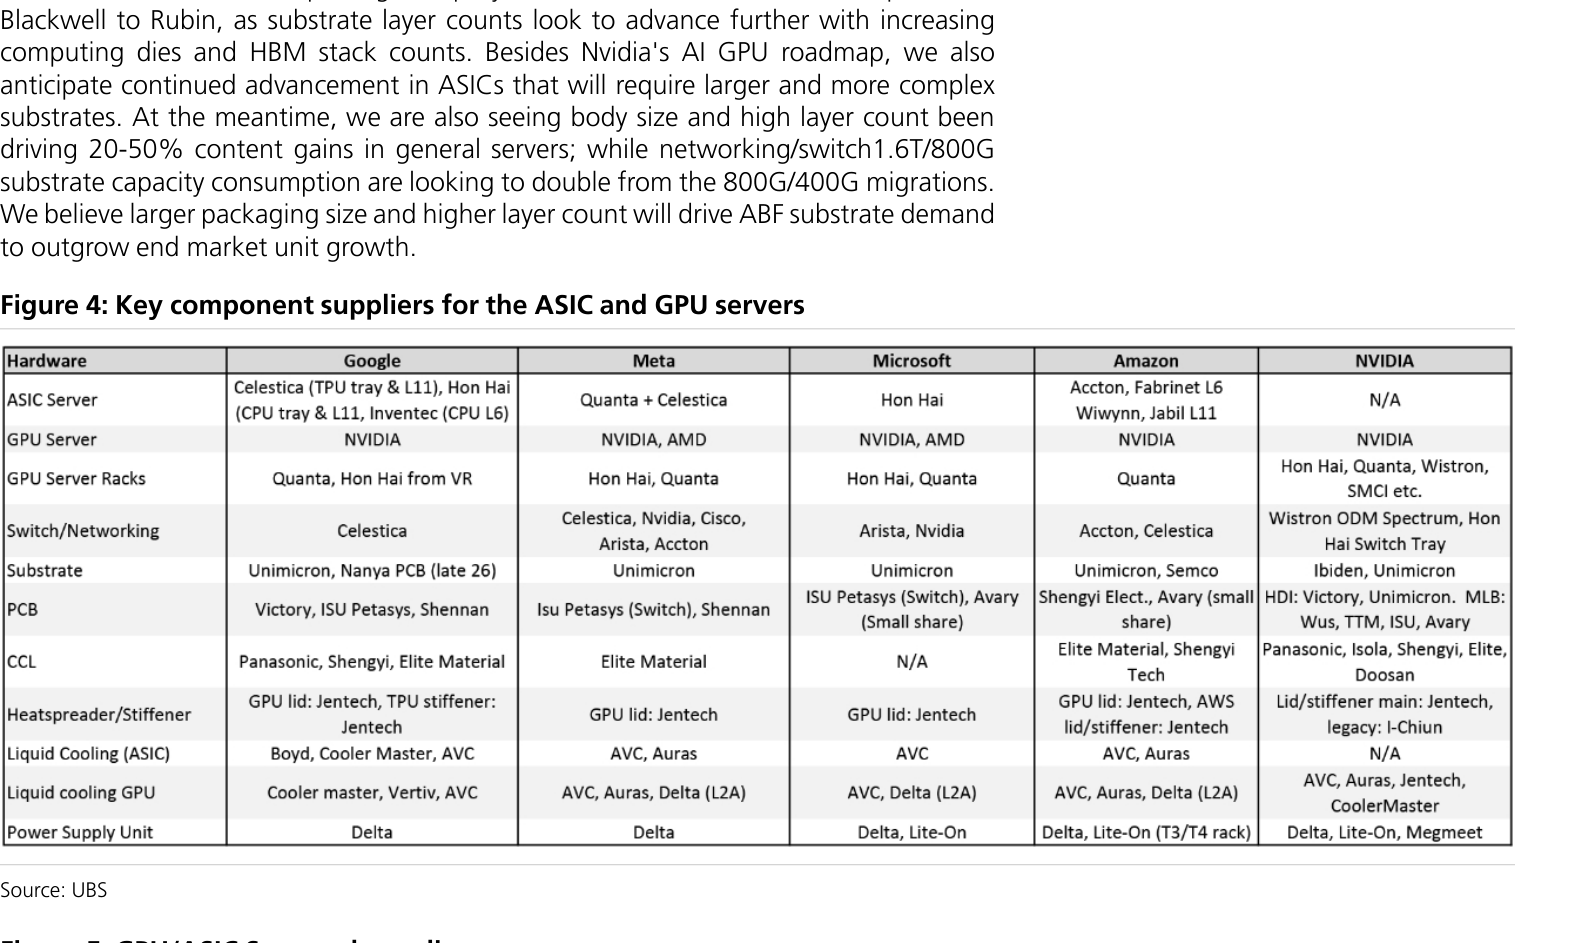
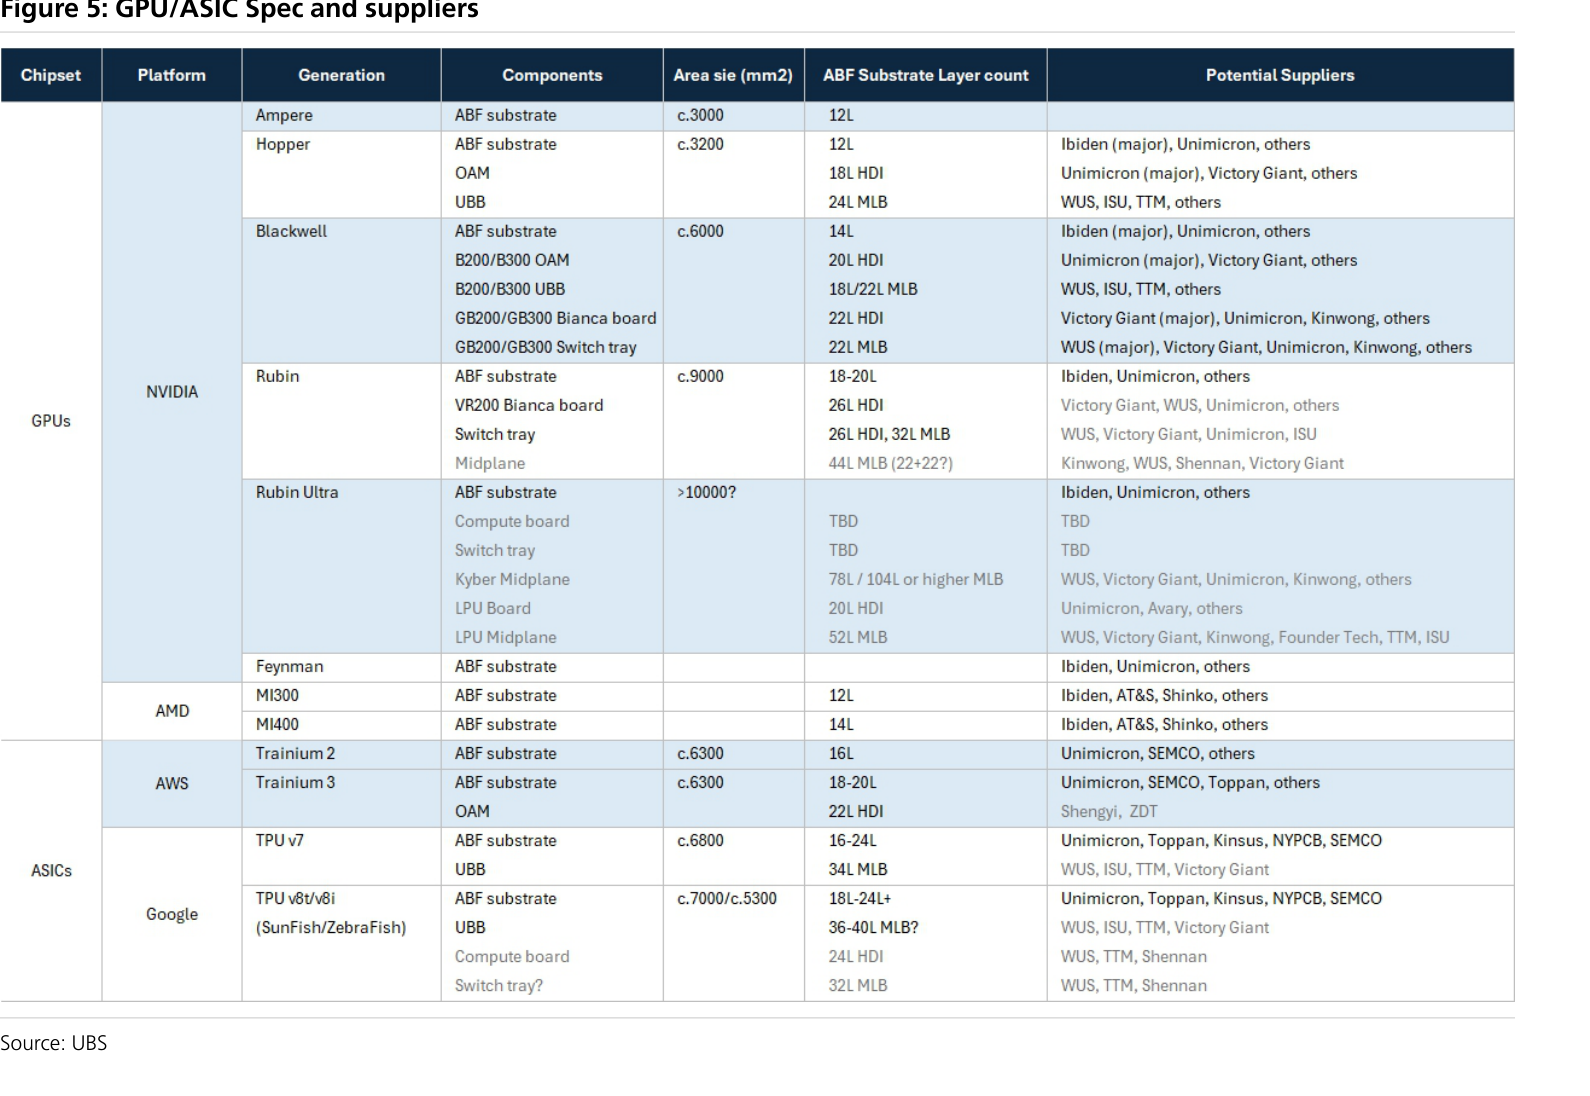
sync: update foreign reports 2026-05-26

diff --git a/content/產業/UBS_20260522_TW-PCB-Substrate.md b/content/產業/UBS_20260522_TW-PCB-Substrate.md
@@ -129,24 +129,65 @@
 
 ---
 
-## Figure 5｜關鍵零組件供應商矩陣（ASIC/GPU Server）
+## Figure 4｜關鍵零組件供應商矩陣（ASIC/GPU Server）
 
-![Figure 5](../assets/UBS_20260522_TW-PCB-Substrate/exhibit_05.png)
+![Figure 4](../assets/UBS_20260522_TW-PCB-Substrate/exhibit_04.png)
 
 ### 解讀摘要
 主要 CSP 的 ASIC 及 GPU server 供應鏈矩陣顯示，Substrate 供應商在所有客戶的 AI Server 中均有明確的台灣廠商（Unimicron、Kinsus）席位。Google/Meta/Microsoft/Amazon 四大 ASIC 平台全部使用台系 substrate，而 NVIDIA GPU server 的 GPU substrate 同樣由台系主導——這意味著市場結構性依賴台灣基板廠，而非可輕易替代。
 
 ### 表格
 
-| 層次 | Google | Meta | Microsoft | Amazon | NVIDIA |
+| 硬體類別 | Google | Meta | Microsoft | Amazon | NVIDIA |
 |---|---|---|---|---|---|
-| ASIC | Broadcom | Marvell | MAIA (Altera/Marvell) | Trainium (Alchip) | — |
-| GPU | — | — | — | — | NVIDIA H/B/R 系列 |
-| Substrate | 台系（Unimicron/Kinsus） | 台系 | 台系 | 台系 | 台系（Unimicron 主導） |
-| CCL | 主要台系 | 主要台系 | 主要台系 | 主要台系 | 主要台系 |
-| Liquid Cooling | 多供應商 | 多供應商 | 多供應商 | 多供應商 | 多供應商 |
+| ASIC Server | Celestica (TPU tray & U), Hon Hai (CPU tray & U), Quanta (CPU tray & U) | Quanta + Celestica (NVIDIA AMD) | Hon Hai, Quanta | Hon Hai | Acton, Celestica (Hon Hai, Quanta) |
+| GPU Server Racks | Quanta, Hon Hai from VR | NVIDIA, AMD | Celestica, Nvidia, Cisco, Arista, Accton | Arista, Nvidia (for Quanta) | Acton, Celestica (Hon Hai from VR) |
+| Switching/Networking | Celestica | No Peloton (DeWitt), Sherman | ISG Peloton (DeWitt), Sherman | Unimicron, Samsics (Shengli Boat), Avery (Samsic, Boat) | Broadcom/Bear, Avery (Samsic, Boat), Hon Hai Switch Tray |
+| Substrate | Unimicron, Kinsus PCB (Note 28) | Elite Material | Unimicron | Unimicron, Kinsus, Elite Material | Ibiden, Unimicron, NAN + PCB, TTM, others |
+| PCB | Unimicron | ISU Peloton (DeWitt), Sherman | ISU Peloton (DeWitt) | Unimicron, Kinsus; Elite Material | Ibiden, PCB (STA-BHD), others |
+| CCL | Panasonic, Shengli; Elite Material | No Peloton (DeWitt), Sherman | AVC, Arris; Delta (2JA) | AVC, Delta (2JA) | AVC, Arris; Delta (2JA) |
+| Heatspreader/Stiffener | GPU tbl Jamboli; AVC | GPU tbl Jamboli | GPU tbl Jamboli; AVC | GPU tbl Jamboli; AVC | Ibiden/Shinko; Avery (MLG others); GPU tbl Jamboli |
+| Liquid Cooling (AICs) | Cooler Master, Vertiv, AVC | AVC, Arris, Delta (2JA) | AVC, Delta (2JA) | AVC, Delta (2JA) | AVC, Arris; Delta (2JA) |
+| Liquid cooling GPU | Cooler Master, Vertiv, AVC | Delta | AVC, Arris; Delta (2JA) | AVC, Delta (2JA) | AVC, Arris; Delta (2JA) |
+| Power Supply Unit | Delta | Delta | Delta | Delta | Delta, Lite-On, Mugnent |
 
-> **洞察一**：五大 CSP 的 ASIC 晶片設計各不同，但 substrate 供應商卻高度集中於台系，代表 Unimicron/Kinsus 的客戶分散度遠優於 ASIC 設計廠——任一 CSP 的 ASIC 策略改變，對 substrate 需求的衝擊有限。
+*表格欄位部分為視覺估算，以原始 PDF 為準*
+
+> **洞察一**：五大 CSP 的 ASIC 晶片設計各不同，但 substrate 供應商卻高度集中於台系（Unimicron/Kinsus 跨所有客戶），代表 Unimicron/Kinsus 的客戶分散度遠優於 ASIC 設計廠——任一 CSP 的 ASIC 策略改變，對 substrate 需求的衝擊有限。
+
+---
+
+## Figure 5｜GPU/ASIC Spec 與供應商
+
+![Figure 5](../assets/UBS_20260522_TW-PCB-Substrate/exhibit_05.png)
+
+### 解讀摘要
+UBS 彙整各代 GPU/ASIC 平台的 Substrate 面積與層數規格，顯示三個關鍵趨勢：(1) Blackwell 的 ABF substrate 面積相較 Hopper 增加約 +70–80%；(2) Rubin 世代引入全新元件（Switch tray、Midplane、IB Midplane、CPU Midplane），每個 rack 需要的 substrate 種類從 2–3 種增加至 5 種以上；(3) layer count 從 Hopper 的 32L 跳至 Rubin-Ultra 的 60L+ 以上。台系供應商（Unimicron、Kinsus、Shinko）出現在所有主要平台的潛在供應商名單中。
+
+### 表格
+
+| 晶片類別 | 平台 | Generation | 元件 | 面積（mm²） | ABF 基板層數 | 潛在供應商 |
+|---|---|---|---|---|---|---|
+| **GPUs** | NVIDIA | Ampere | ABF substrate | ~5,000–6,500 | 32 | Shinko, Unimicron, others |
+| | | Hopper | ABF substrate | ~6,500 | 32+ | Ibiden, Shinko, Unimicron, others |
+| | | Blackwell | ABF substrate | ~8,000（+70–80% vs Hopper） | 46+ | Kinsus, Unimicron, Ibiden, others |
+| | | Rubin | VR/SXM substrate | ~8,000–10,000 | 46+ | Ibiden, Kinsus, Unimicron, Victory Giant |
+| | | Rubin | GB200/GB300 Switch tray | ~1,000–2,000 | 20–24 | TTM, Shennan, Kinwong, others |
+| | | Rubin | Midplane | ~3,000+ | 30+ | Unimicron, Kinsus, Shennan |
+| | | Rubin | IB Midplane / CPU Midplane | ~500–1,500 | 20+ | TTM, Shennan, Kinwong |
+| | | Rubin-Ultra | ABF substrate | >10,000 | 60+ | Ibiden, Kinsus, Unimicron |
+| **AMD** | AMD | M300 | ABF substrate | 321 | — | Ibiden, ATK5, Shinko, others |
+| | | H400 | ABF substrate | 321 | — | Ibiden, ATK5, Shinko, others |
+| **ASICs** | Amazon | Trainium-1 | ABF substrate | ~2,000 | 30+ | Unimicron, Kinsus, Shennan |
+| | | Trainium-2 | ABF substrate | ~2,000 | 40+ | Unimicron, Kinsus |
+| | Google | TPU-v6e/v6/v6p | ABF substrate | — | — | Victory Giant, Shennan, Kinwong |
+| | Google | ZebraFish (v6p) | Compute board, Switch board | — | — | TTM, Shennan, Kinwong, others |
+
+*部分數值為視覺估算，以原始 PDF 為準*
+
+> **洞察一**：Rubin 世代的 substrate opportunity 不只是 GPU substrate 面積（~+25% vs Blackwell），更在於元件種類倍增——Rubin rack 至少有 5 種 substrate（VR/SXM + Switch tray + Midplane + IB Midplane + CPU Midplane），每一種都有獨立的台系供應商機會，總量級顯著高於單純 GPU substrate 面積計算。
+
+> **洞察二（配合 Figure 4）**：Figure 4 顯示台系廠商在 Unimicron/Kinsus 佔據所有 CSP 的 substrate 位置；Figure 5 進一步確認技術門檻（46L+ ABF、>10,000mm² Rubin-Ultra）將進一步縮窄合格供應商範圍，台系廠商的競爭優勢非短期可被取代。
 
 ---
 

diff --git a/quartz/static/downloads/產業/UBS_20260522_TW-PCB-Substrate.md b/quartz/static/downloads/產業/UBS_20260522_TW-PCB-Substrate.md
@@ -129,24 +129,65 @@
 
 ---
 
-## Figure 5｜關鍵零組件供應商矩陣（ASIC/GPU Server）
+## Figure 4｜關鍵零組件供應商矩陣（ASIC/GPU Server）
 
-![Figure 5](../assets/UBS_20260522_TW-PCB-Substrate/exhibit_05.png)
+![Figure 4](../assets/UBS_20260522_TW-PCB-Substrate/exhibit_04.png)
 
 ### 解讀摘要
 主要 CSP 的 ASIC 及 GPU server 供應鏈矩陣顯示，Substrate 供應商在所有客戶的 AI Server 中均有明確的台灣廠商（Unimicron、Kinsus）席位。Google/Meta/Microsoft/Amazon 四大 ASIC 平台全部使用台系 substrate，而 NVIDIA GPU server 的 GPU substrate 同樣由台系主導——這意味著市場結構性依賴台灣基板廠，而非可輕易替代。
 
 ### 表格
 
-| 層次 | Google | Meta | Microsoft | Amazon | NVIDIA |
+| 硬體類別 | Google | Meta | Microsoft | Amazon | NVIDIA |
 |---|---|---|---|---|---|
-| ASIC | Broadcom | Marvell | MAIA (Altera/Marvell) | Trainium (Alchip) | — |
-| GPU | — | — | — | — | NVIDIA H/B/R 系列 |
-| Substrate | 台系（Unimicron/Kinsus） | 台系 | 台系 | 台系 | 台系（Unimicron 主導） |
-| CCL | 主要台系 | 主要台系 | 主要台系 | 主要台系 | 主要台系 |
-| Liquid Cooling | 多供應商 | 多供應商 | 多供應商 | 多供應商 | 多供應商 |
+| ASIC Server | Celestica (TPU tray & U), Hon Hai (CPU tray & U), Quanta (CPU tray & U) | Quanta + Celestica (NVIDIA AMD) | Hon Hai, Quanta | Hon Hai | Acton, Celestica (Hon Hai, Quanta) |
+| GPU Server Racks | Quanta, Hon Hai from VR | NVIDIA, AMD | Celestica, Nvidia, Cisco, Arista, Accton | Arista, Nvidia (for Quanta) | Acton, Celestica (Hon Hai from VR) |
+| Switching/Networking | Celestica | No Peloton (DeWitt), Sherman | ISG Peloton (DeWitt), Sherman | Unimicron, Samsics (Shengli Boat), Avery (Samsic, Boat) | Broadcom/Bear, Avery (Samsic, Boat), Hon Hai Switch Tray |
+| Substrate | Unimicron, Kinsus PCB (Note 28) | Elite Material | Unimicron | Unimicron, Kinsus, Elite Material | Ibiden, Unimicron, NAN + PCB, TTM, others |
+| PCB | Unimicron | ISU Peloton (DeWitt), Sherman | ISU Peloton (DeWitt) | Unimicron, Kinsus; Elite Material | Ibiden, PCB (STA-BHD), others |
+| CCL | Panasonic, Shengli; Elite Material | No Peloton (DeWitt), Sherman | AVC, Arris; Delta (2JA) | AVC, Delta (2JA) | AVC, Arris; Delta (2JA) |
+| Heatspreader/Stiffener | GPU tbl Jamboli; AVC | GPU tbl Jamboli | GPU tbl Jamboli; AVC | GPU tbl Jamboli; AVC | Ibiden/Shinko; Avery (MLG others); GPU tbl Jamboli |
+| Liquid Cooling (AICs) | Cooler Master, Vertiv, AVC | AVC, Arris, Delta (2JA) | AVC, Delta (2JA) | AVC, Delta (2JA) | AVC, Arris; Delta (2JA) |
+| Liquid cooling GPU | Cooler Master, Vertiv, AVC | Delta | AVC, Arris; Delta (2JA) | AVC, Delta (2JA) | AVC, Arris; Delta (2JA) |
+| Power Supply Unit | Delta | Delta | Delta | Delta | Delta, Lite-On, Mugnent |
 
-> **洞察一**：五大 CSP 的 ASIC 晶片設計各不同，但 substrate 供應商卻高度集中於台系，代表 Unimicron/Kinsus 的客戶分散度遠優於 ASIC 設計廠——任一 CSP 的 ASIC 策略改變，對 substrate 需求的衝擊有限。
+*表格欄位部分為視覺估算，以原始 PDF 為準*
+
+> **洞察一**：五大 CSP 的 ASIC 晶片設計各不同，但 substrate 供應商卻高度集中於台系（Unimicron/Kinsus 跨所有客戶），代表 Unimicron/Kinsus 的客戶分散度遠優於 ASIC 設計廠——任一 CSP 的 ASIC 策略改變，對 substrate 需求的衝擊有限。
+
+---
+
+## Figure 5｜GPU/ASIC Spec 與供應商
+
+![Figure 5](../assets/UBS_20260522_TW-PCB-Substrate/exhibit_05.png)
+
+### 解讀摘要
+UBS 彙整各代 GPU/ASIC 平台的 Substrate 面積與層數規格，顯示三個關鍵趨勢：(1) Blackwell 的 ABF substrate 面積相較 Hopper 增加約 +70–80%；(2) Rubin 世代引入全新元件（Switch tray、Midplane、IB Midplane、CPU Midplane），每個 rack 需要的 substrate 種類從 2–3 種增加至 5 種以上；(3) layer count 從 Hopper 的 32L 跳至 Rubin-Ultra 的 60L+ 以上。台系供應商（Unimicron、Kinsus、Shinko）出現在所有主要平台的潛在供應商名單中。
+
+### 表格
+
+| 晶片類別 | 平台 | Generation | 元件 | 面積（mm²） | ABF 基板層數 | 潛在供應商 |
+|---|---|---|---|---|---|---|
+| **GPUs** | NVIDIA | Ampere | ABF substrate | ~5,000–6,500 | 32 | Shinko, Unimicron, others |
+| | | Hopper | ABF substrate | ~6,500 | 32+ | Ibiden, Shinko, Unimicron, others |
+| | | Blackwell | ABF substrate | ~8,000（+70–80% vs Hopper） | 46+ | Kinsus, Unimicron, Ibiden, others |
+| | | Rubin | VR/SXM substrate | ~8,000–10,000 | 46+ | Ibiden, Kinsus, Unimicron, Victory Giant |
+| | | Rubin | GB200/GB300 Switch tray | ~1,000–2,000 | 20–24 | TTM, Shennan, Kinwong, others |
+| | | Rubin | Midplane | ~3,000+ | 30+ | Unimicron, Kinsus, Shennan |
+| | | Rubin | IB Midplane / CPU Midplane | ~500–1,500 | 20+ | TTM, Shennan, Kinwong |
+| | | Rubin-Ultra | ABF substrate | >10,000 | 60+ | Ibiden, Kinsus, Unimicron |
+| **AMD** | AMD | M300 | ABF substrate | 321 | — | Ibiden, ATK5, Shinko, others |
+| | | H400 | ABF substrate | 321 | — | Ibiden, ATK5, Shinko, others |
+| **ASICs** | Amazon | Trainium-1 | ABF substrate | ~2,000 | 30+ | Unimicron, Kinsus, Shennan |
+| | | Trainium-2 | ABF substrate | ~2,000 | 40+ | Unimicron, Kinsus |
+| | Google | TPU-v6e/v6/v6p | ABF substrate | — | — | Victory Giant, Shennan, Kinwong |
+| | Google | ZebraFish (v6p) | Compute board, Switch board | — | — | TTM, Shennan, Kinwong, others |
+
+*部分數值為視覺估算，以原始 PDF 為準*
+
+> **洞察一**：Rubin 世代的 substrate opportunity 不只是 GPU substrate 面積（~+25% vs Blackwell），更在於元件種類倍增——Rubin rack 至少有 5 種 substrate（VR/SXM + Switch tray + Midplane + IB Midplane + CPU Midplane），每一種都有獨立的台系供應商機會，總量級顯著高於單純 GPU substrate 面積計算。
+
+> **洞察二（配合 Figure 4）**：Figure 4 顯示台系廠商在 Unimicron/Kinsus 佔據所有 CSP 的 substrate 位置；Figure 5 進一步確認技術門檻（46L+ ABF、>10,000mm² Rubin-Ultra）將進一步縮窄合格供應商範圍，台系廠商的競爭優勢非短期可被取代。
 
 ---
 
